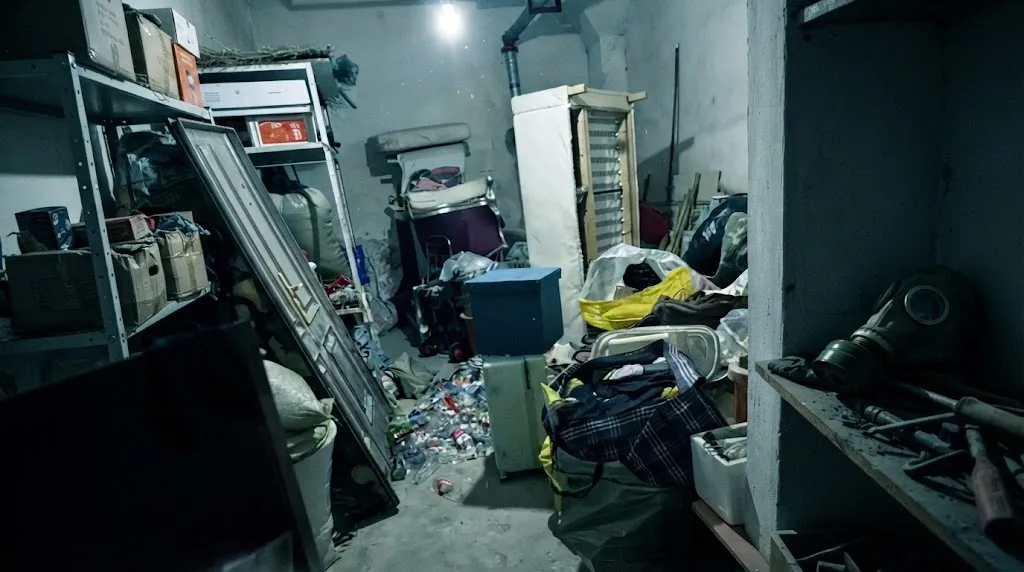
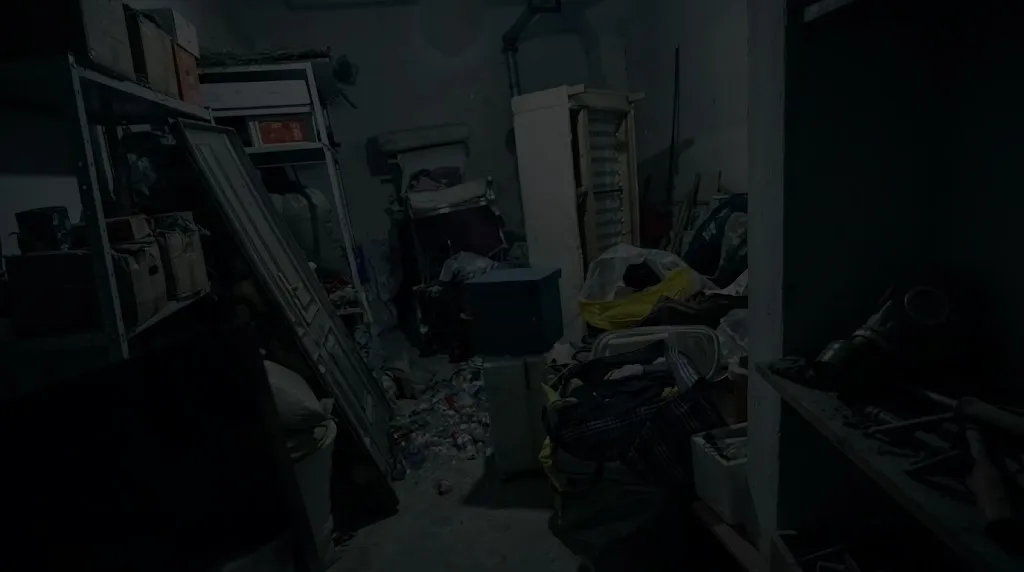
auto: 2026-09-27 07:00

diff --git a/story/东明街道/全家和公交站.js b/story/东明街道/全家和公交站.js
@@ -50,7 +50,7 @@ Object.assign(storyData, {
       if(vars.instantNoodle > 0 && vars.familyMartNoodleLeft > 0) {
         base += "货架上还有泡面，但你包里已经带了" + vars.instantNoodle + "包了。";
       }
-      if (vars._visit["全家便利店（环林东路）"] && (!vars.FamilymartHasZombie || vars._visit["全家便利店-饼干引路"] > 0)) {
+      if (vars._visit["全家便利店（环林东路）"] && (!vars.FamilymartHasZombie || vars._visit["全家便利店-零食引路"] > 0)) {
         base += "\n<span style='color: #aaa;'>上次那只丧尸已经不在了。柜台后面的员工通道半开着，里面黑漆漆的，也许有什么有用的东西。</span>";
       }
       return base;
@@ -79,8 +79,8 @@ Object.assign(storyData, {
       {
         showCondition: "hasTorch",
         text: "打手电筒探索员工通道",
-        condition: "_visit['全家便利店-饼干引路']",
-        nextScene: "全家便利店-员工通道",
+        condition: "_visit['全家便利店-零食引路']",
+        nextScene: "全家便利店-员工通道", // 只有用零食把丧尸引走了才能安全进入员工通道
         effect: updateTime(2),
         elseScene: "结局-全家便利店-员工通道-丧尸的偷袭"
       },
@@ -166,9 +166,8 @@ Object.assign(storyData, {
       },
       {
         showCondition: "hasBiscuit",
-        text: "掏出饼干丢出去！",
-        nextScene: "全家便利店-饼干引路",
-        effect: updateTime(1, { set: { hasBiscuit: false }, add: { itemCount: -1 } })
+        text: "往员工通道里丢出零食",
+        nextScene: "全家便利店-零食引路"
       }
     ]
   },
@@ -425,10 +424,10 @@ Object.assign(storyData, {
 
   // ========== 饼干引路 + 员工通道 ==========
 
-  "全家便利店-饼干引路": {
+  "全家便利店-零食引路": {
     image: "images/placeholder.png" /* TODO: images/小区周边/全家和公交站/饼干引路.png */,
-    text: "你从口袋里掏出那包饼干，撕开包装，用力朝员工通道的方向扔了过去。\n\
-饼干砸在金属门上，碎屑四溅。那只迅捷丧尸的注意力瞬间被吸引——它像一道闪电般扑向声音的来源，一头扎进了黑漆漆的员工通道。\n\
+    text: "你把手电筒用力朝员工通道的方向扔了过去。\n\
+零食袋砸在金属门上，那只迅捷丧尸的注意力瞬间被吸引——它像一道闪电般扑向声音的来源，一头扎进了黑漆漆的员工通道。\n\
 紧接着，通道深处传来咣当一声巨响——它似乎撞翻了什么重物，然后是一阵杂乱的刮擦声……渐渐安静了下来。\n你等了几秒，确认它没有回来。员工通道的门半开着，里面一片漆黑。",
     choices: [
       {
@@ -456,25 +455,20 @@ Object.assign(storyData, {
       return updateTime(3)(vars);
     },
     text: "你打开手电筒，一道光束劈开黑暗。\n员工通道比你想象的要深。那只迅捷丧尸倒在走廊尽头——它撞翻了一个堆满饮料瓶的铁架，被压在下面动弹不得，只能冲你发出微弱的嘶吼。\n\
-你小心地绕过它。走廊两侧是储物柜和杂物间。其中一个储物柜的门虚掩着，锁上还插着一把钥匙。\n你拉开柜门，里面挂着一件员工外套。你翻了翻口袋——一把钥匙掉了出来，不知道是开什么的。",
+你小心地绕过它。走廊两侧是储物柜和杂物间。其中一个储物柜的门虚掩着，锁上还插着一把钥匙。\n\
+你拉开柜门，里面挂着一件员工外套。你翻了翻口袋——一把钥匙掉了出来，不知道是开什么的。",
     choices: [
       {
         showCondition: "!hasDoorKey1",
-        text: "继续",
+        text: "捡起钥匙",
         condition: "itemCount < bagVolume",
         nextScene: "全家便利店内部",
         effect: updateTime(1, { set: { hasDoorKey1: true }, add: { itemCount: 1 } }),
         elseScene: "整理整理"
       },
       {
-        showCondition: "hasDoorKey1",
-        text: "继续",
+        text: "离开",
         nextScene: "全家便利店内部"
-      },
-      {
-        showCondition: "itemCount >= bagVolume",
-        text: "背包满了，先整理一下",
-        nextScene: "整理整理"
       }
     ]
   },

diff --git a/story/建平中学.js b/story/建平中学.js
@@ -1030,8 +1030,8 @@ Object.assign(storyData, {
 
   "建平-地下车库-消防柜-取斧": {
     image: "images/placeholder.png" /* TODO: images/jianping/fireAxe.png */,
-    onEnter: { set: { hasAxe: true }, add: { itemCount: 1, chasedByZombies: 1 } },
-    text: "你抡起手边一块砖头，砸碎消防柜的锁。碎裂声在空旷的车库里格外响，外面似乎传来了一阵骚动。\n你飞快地抓起那把消防斧——沉甸甸的，刃口崭新，是学校里那种防暴斧。",
+    onEnter: { set: { hasAxe: true }, add: { itemCount: 1} },
+    text: "你拿走了斧头。",
     choices: [
       { text: "收好消防斧", nextScene: "建平-地下车库", effect: updateTime(1) }
     ]
@@ -1039,9 +1039,13 @@ Object.assign(storyData, {
 
   "建平-地下车库-工具间": {
     image: function(vars) {
-      if (!vars._visit['建平-地下车库-工具间-开门']) return "images/placeholder.png";
+      if (!vars._visit['建平-地下车库-工具间-开门']) {
+        if(vars.hasTorch) return "images/建平/地下工具间门口-手电筒.webp";
+        if(vars.hasFireTorch) return "images/建平/地下工具间门口-火把.webp";
+        return "images/placeholder.png";
+      }
       // 开门后室内：昏暗底图（试点用降亮度试验图，定稿换正式 webp）
-      return "images/建平/地下工具间-test.jpg";
+      return "images/建平/地下工具间.webp"; // 转换完毕
     },
     onEnter: function(vars) { vars.currentPos = "地下车库工具间"; vars.positionAfterOperation = "建平-地下车库-工具间"; },
     text: function(vars) {
@@ -1104,7 +1108,7 @@ Object.assign(storyData, {
   // 发现即互动：spot.choice 在照亮瞬间由引擎追加渲染成下方选项（完整普通选项语义），
   // 互动结果节点收尾后回到本场景继续搜（onEnter 无时间成本，费用记在进门选项上）。
   "建平-地下车库-工具间-搜查": {
-    image: "images/建平/地下工具间-test.jpg",
+    image: "images/建平/地下工具间.webp",
     darkSearch: {
       dwellMs: 5000,
       spots: [
